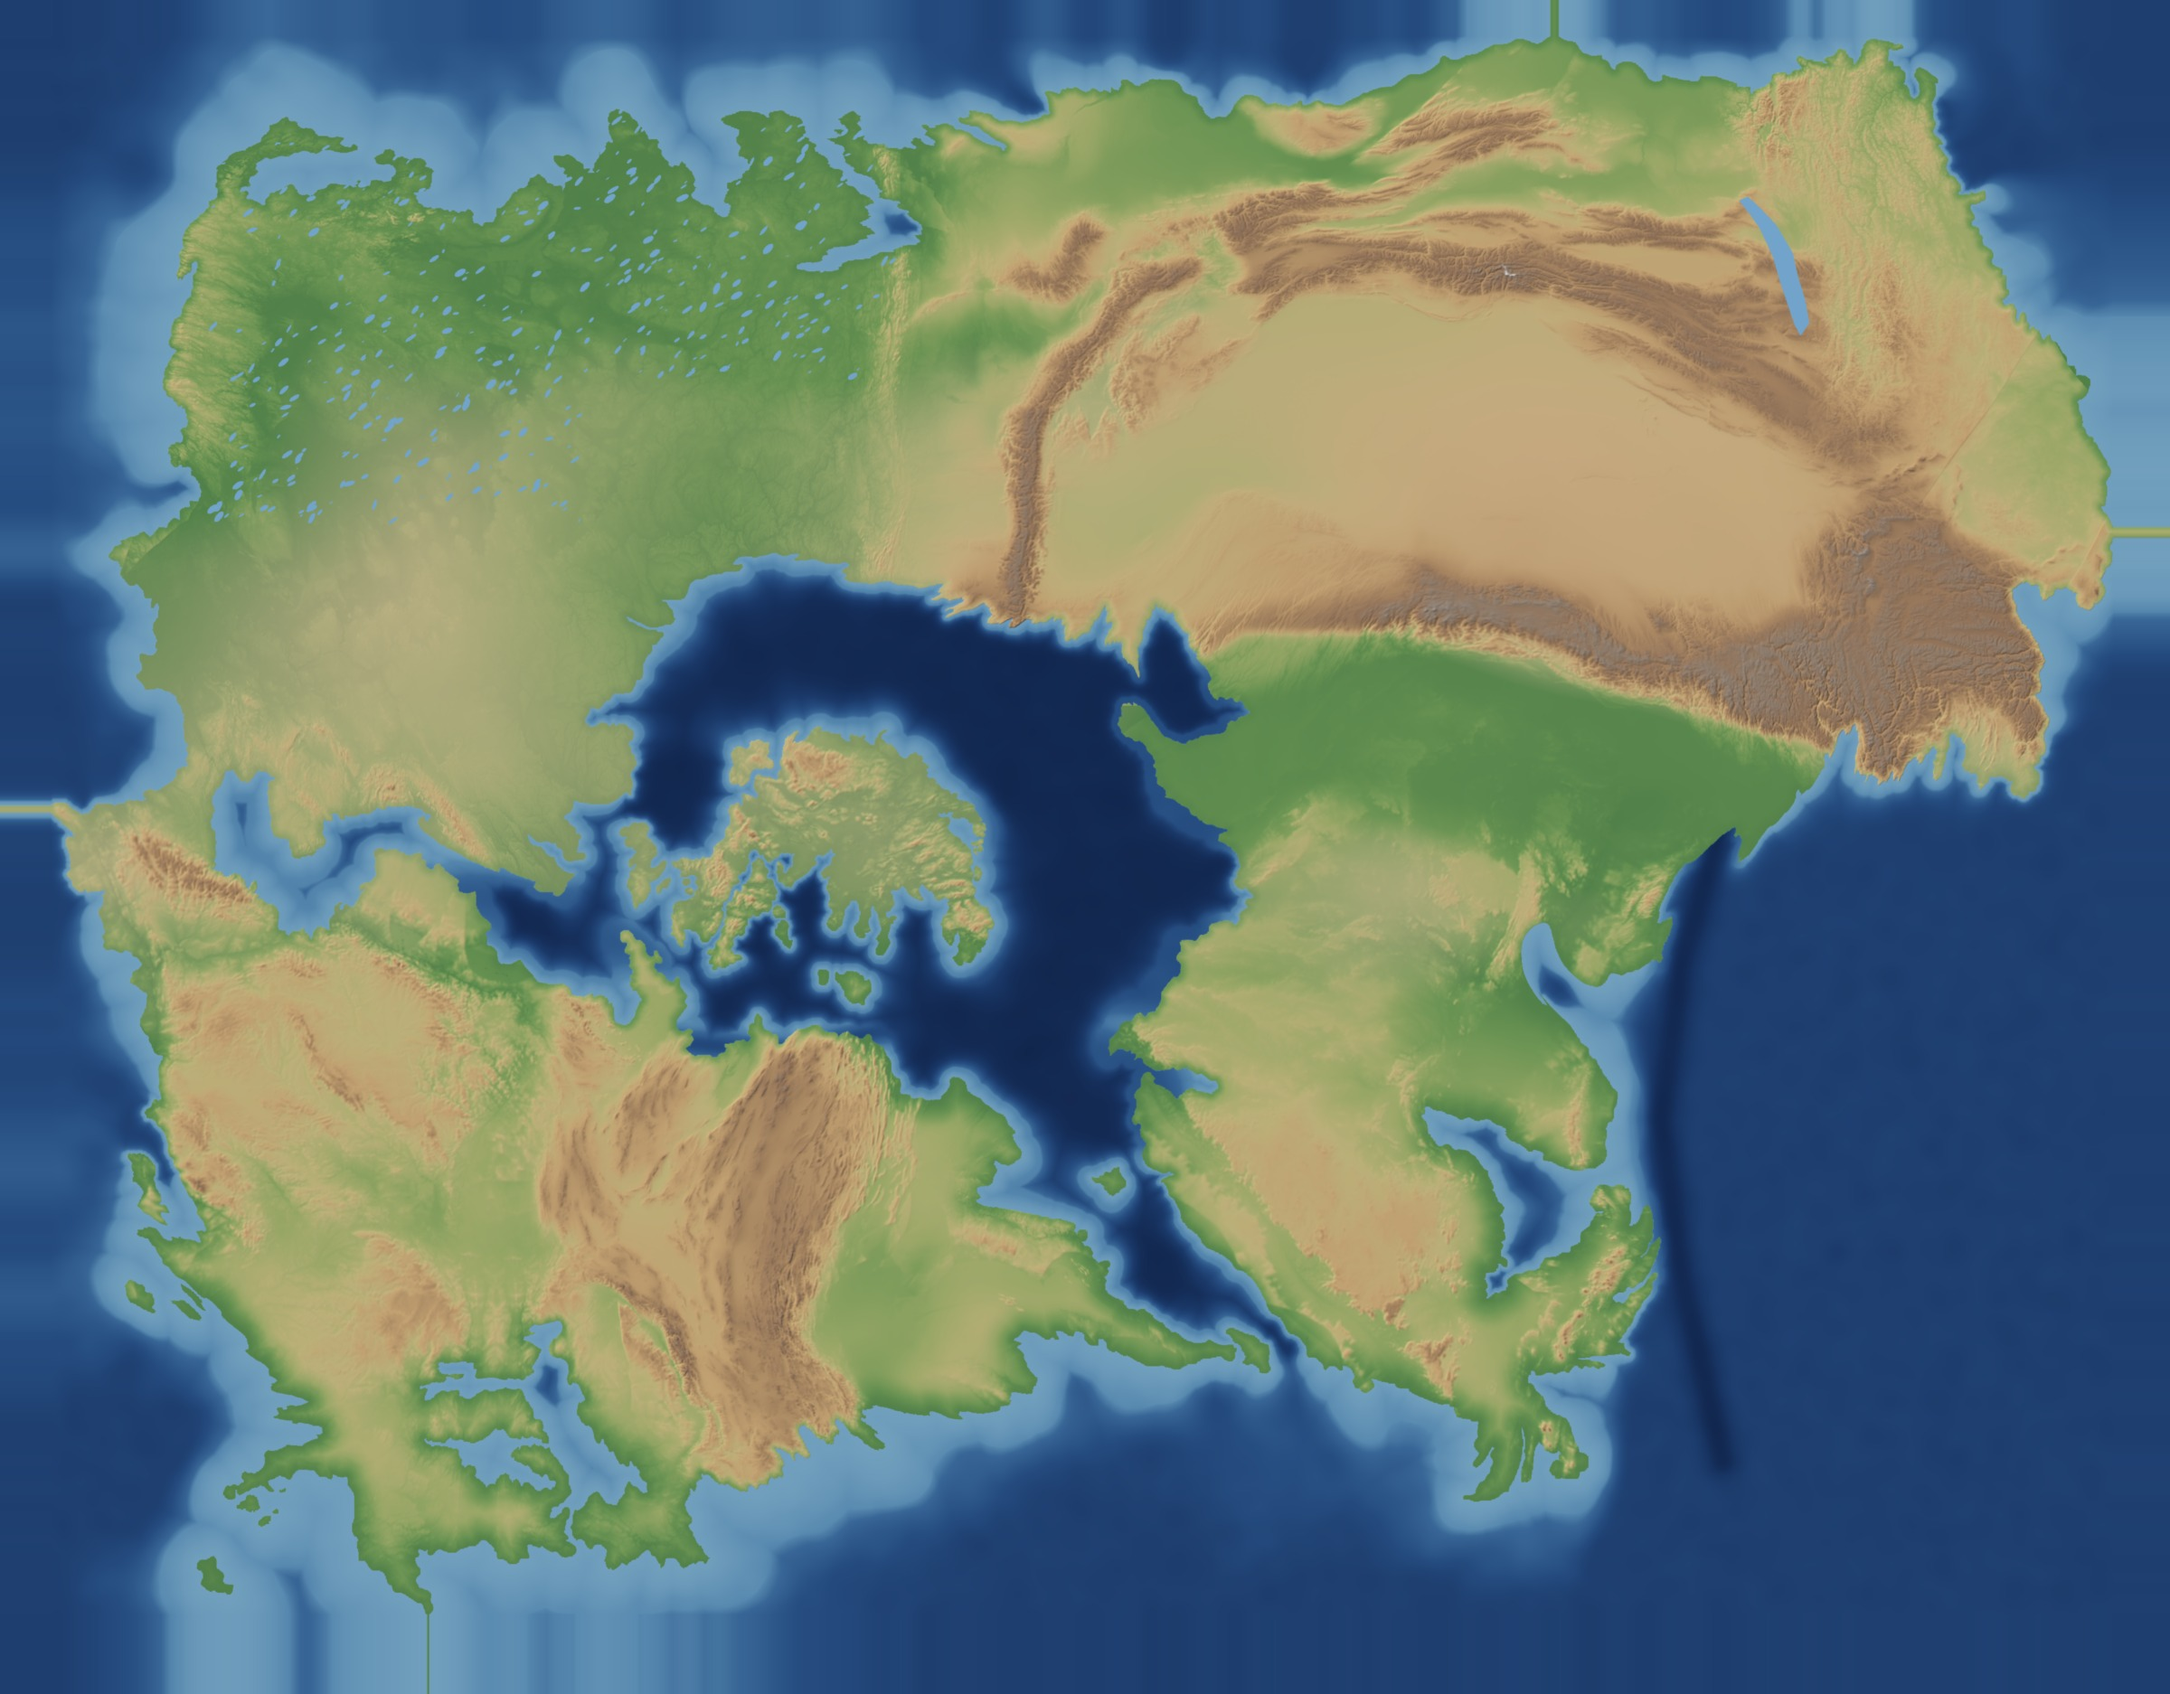
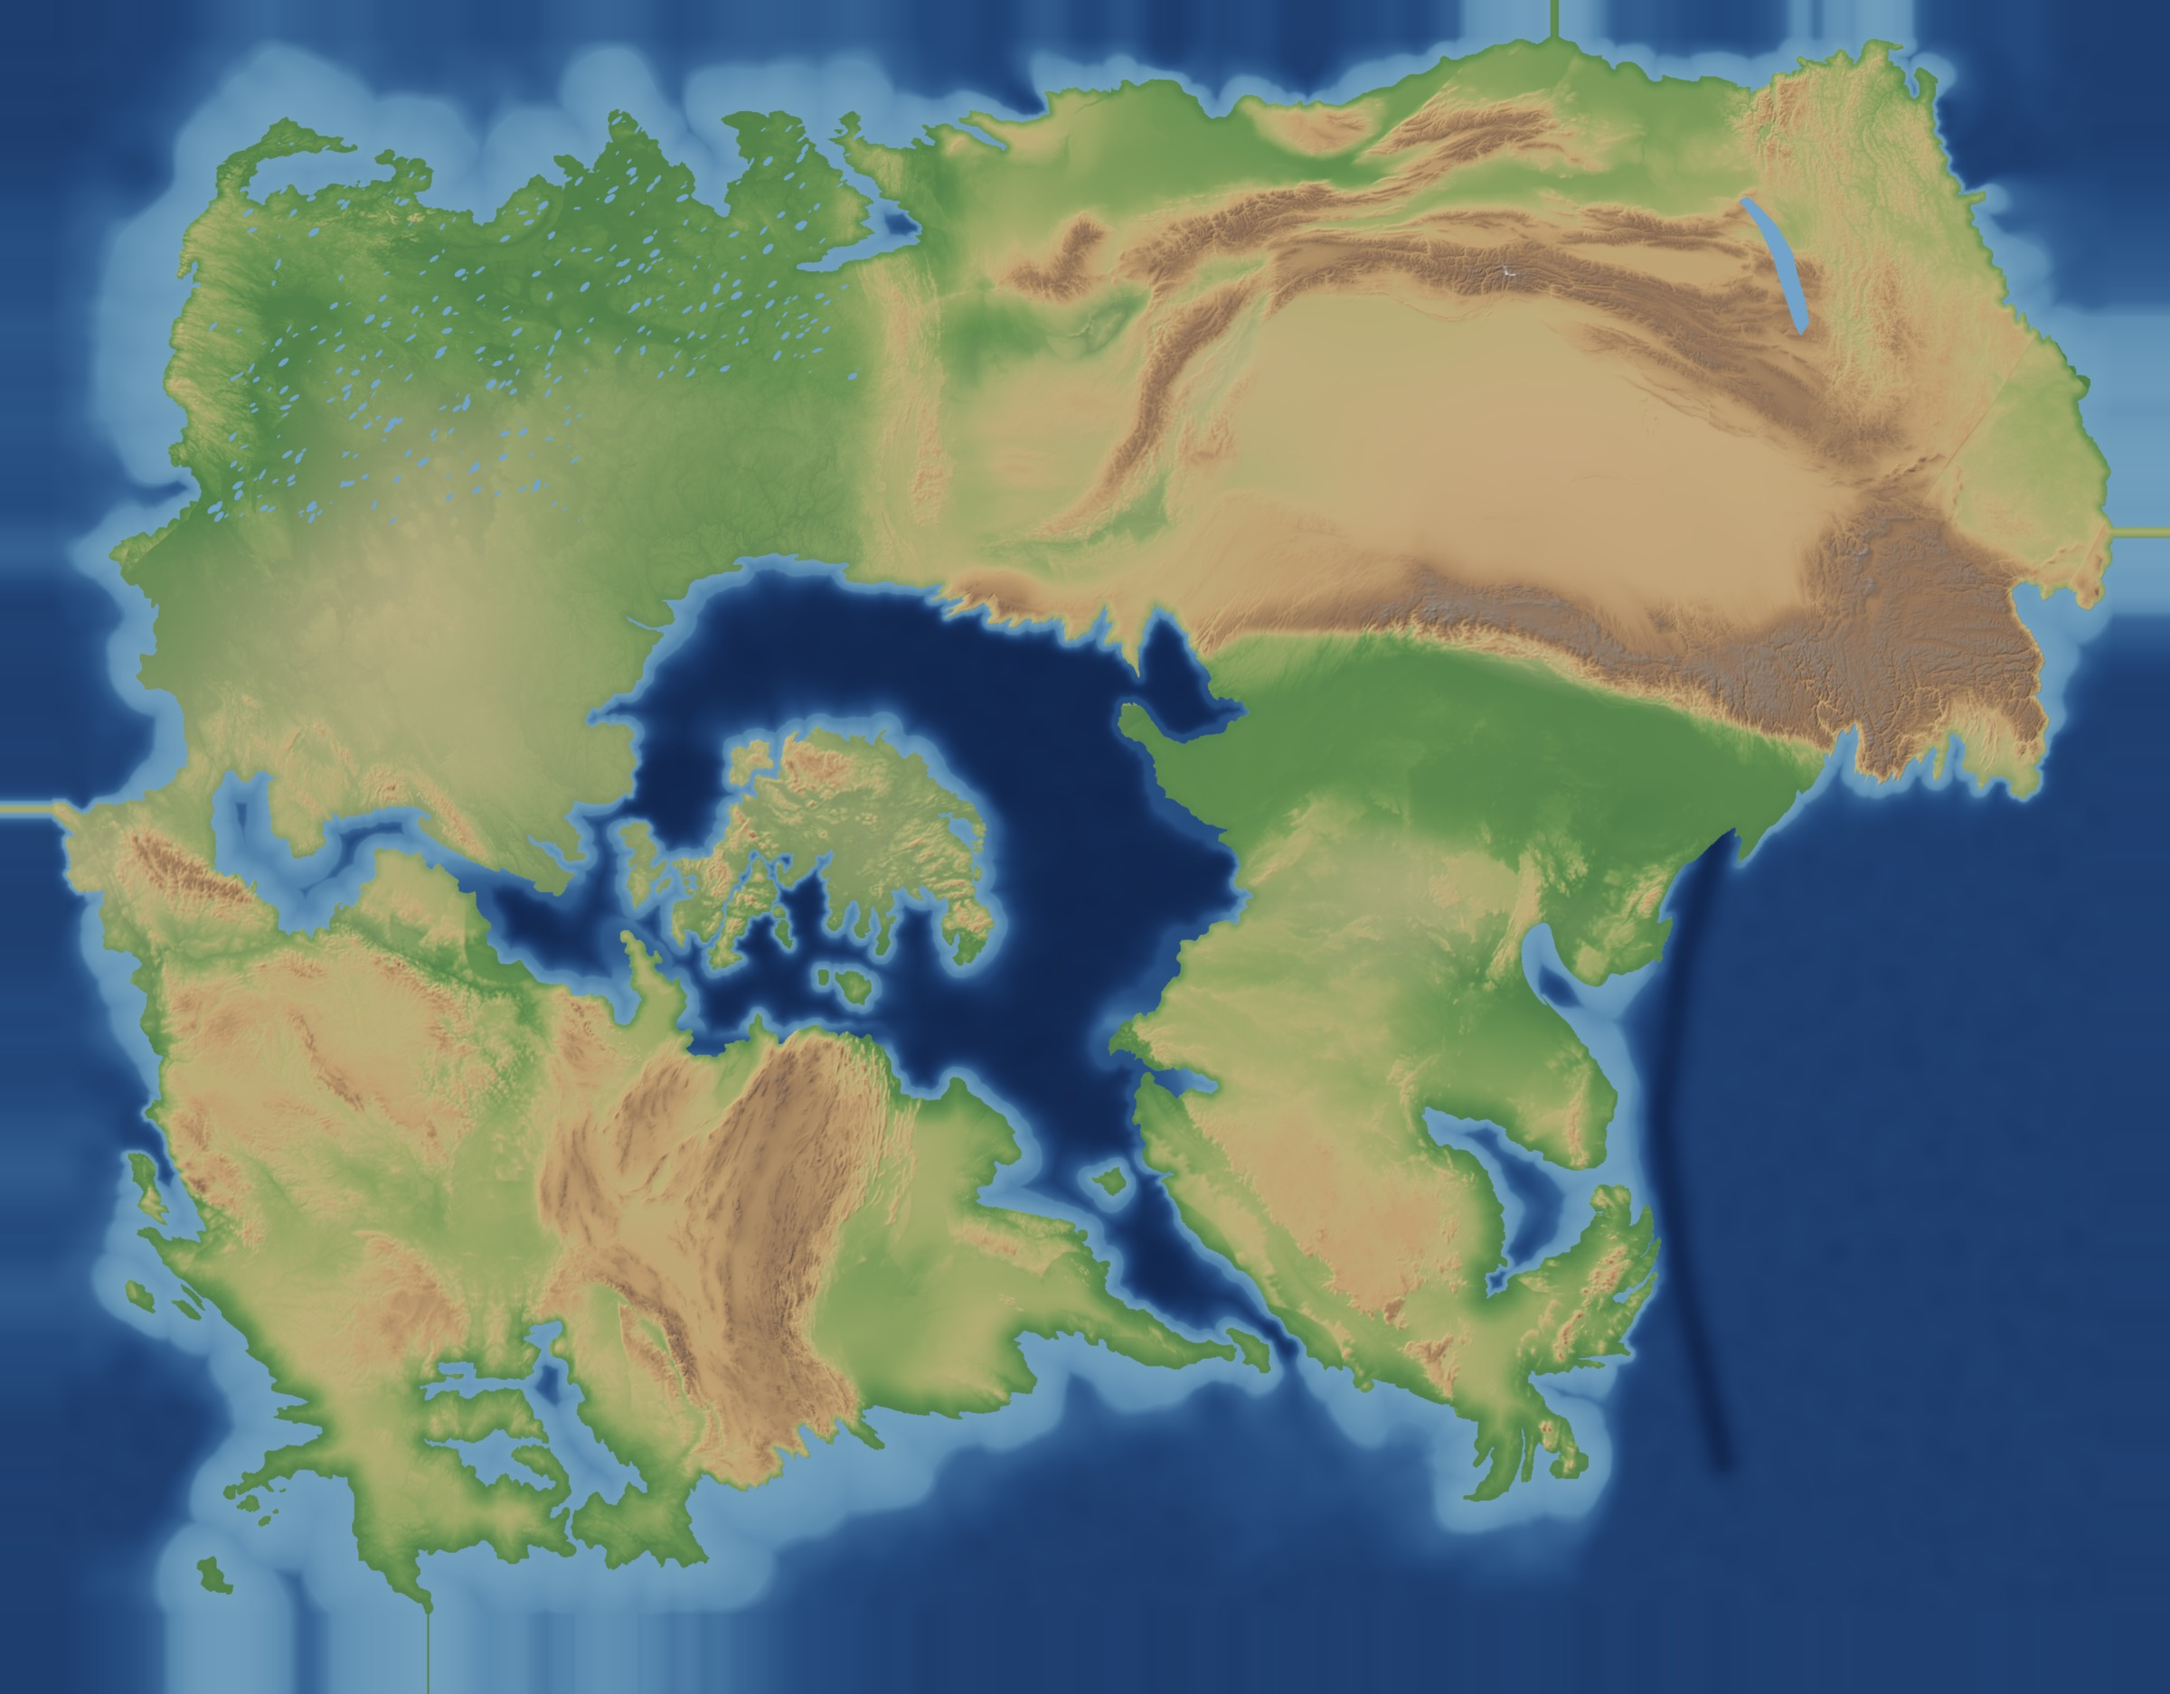
Tarih: Kaynak Sırası S hattında ve dibe doğru incelir; Mavi Dağlar Apalaş dokusu ve hafif kabartı
Claude-Session: https://claude.ai/code/session_01TrTgWsQ7k9npTcPJkL6aYQ

Changed region(s): [[0.4375, 0.1238, 0.5938, 0.3714], [0.375, 0.0928, 0.4688, 0.2785]]

diff --git a/tarih/benzer.py b/tarih/benzer.py
@@ -35,6 +35,14 @@ KARSILIK = [
         "nokta": [(105, 470, 7.0, 58.0), (190, 105, 25.8, 71.1), (800, 110, 59.2, 65.0), (808, 520, 58.3, 54.2)],
         "bolge": [(0, 0), (870, 0), (875, 300), (880, 600), (860, 620), (600, 720), (560, 960), (400, 880), (260, 880), (170, 795), (90, 775), (0, 725)],
     },
+    {   # Mavi Dağlar: 430 milyon yıllık 1 ile 2 dikişi. Düz Ural şeridi yerine kıvrımlı, yaşlı Apalaş sırtları (sahibin çizdiği hat).
+        "ad": "Mavi", "kutu": (-90, -72, 32, 44), "parca": {"1", "2"}, "oncelik": 2.5, "yumusak_km": 45,
+        "etiket": [],
+        "nokta": [(793, 139, -76.3, 41.6), (808, 228, -78.6, 39.6), (822, 312, -80.6, 37.9), (833, 407, -82.9, 36.2),
+                  (840, 512, -85.6, 34.4)],
+        "bolge": [(760, 110), (830, 110), (850, 230), (868, 320), (878, 410), (885, 520), (800, 530), (790, 410), (775, 320),
+                  (760, 230)],
+    },
     {   # 2'nin kuzeyi ve ortası: Orta Sibirya; Putorana = Kuzey Tuzakları, Baykal = Derin Göl, Sayanlar = Uzak Sıra
         "ad": "Sibirya", "kutu": (60, 140, 44, 78), "parca": {"2", "serit"},
         "etiket": [("Derin Göl", 110.6, 54.6, 15), ("UZAK SIRA", 96.5, 52.6, 17), ("Boz Kalkan", 110.0, 64.0, 16)],
@@ -60,14 +68,12 @@ KARSILIK = [
         "ad": "Kaynak", "kutu": (35, 51, 39, 47.5), "parca": {"2"}, "oncelik": 4.0, "yumusak_km": 35, "bukme_kat": 0.0,
         "yukseklik_egri": [(0, 0), (1000, 900), (2500, 2150), (4000, 3000), (5700, 3500)],
         "etiket": [("KAYNAK SIRASI", 42.4, 43.35, 14)],
-        # sahibin çizdiği yön: Çanak Sıraları'nın batı ucundan güneybatıya inen kol (görüntü pikseli)
-        "nokta": [(905, 452, 37.6, 44.8), (957, 362, 40.6, 43.7), (1005, 297, 43.6, 42.95), (1045, 258, 45.6, 42.3),
-                  (1078, 235, 47.5, 41.5), (1115, 215, 49.2, 40.8)],
-        "bolge": [(895.6, 392), (930, 330), (990, 255), (1060, 200), (1130, 180), (1145, 235), (1080, 280), (1020, 340),
-                  (984, 392)],
-        # eşlemenin çapa kutusu önceki bölgeden: 44°K kuzeyindeki doku kıpırdamasın
-        "capa_bolge": [(880, 420), (930, 330), (990, 255), (1060, 200), (1130, 180), (1145, 235), (1080, 280), (1020, 340),
-                       (975, 405), (935, 485), (880, 480)],
+        # sahibin çizdiği S biçimli hat (görüntü pikseli): Çanak Sıraları'ndan güneybatıya, dibe doğru incelerek ve alçalarak.
+        # Kafkas ters yönde: alçak ve ince batı ucu (Anapa) sıranın dibinde.
+        "nokta": [(1150, 241, 48.6, 41.2), (1108, 291, 47.0, 41.8), (1077, 333, 45.4, 42.4), (1055, 386, 43.8, 42.9),
+                  (1024, 438, 42.2, 43.35), (977, 475, 40.2, 43.9), (908, 498, 37.6, 44.8)],
+        "bolge": [(1120, 205), (1190, 225), (1150, 300), (1110, 350), (1090, 410), (1050, 470), (990, 515), (900, 525),
+                  (890, 480), (960, 445), (1000, 405), (1025, 345), (1065, 280)],
     },
     {   # Mor Sıradağları: yalnız dar sıra şeridi; karşılığı aynalanmış Himalaya'nın ön kuşağı (arkasındaki yayla dahil değil),
         # yükseklik 6 km dolayına ölçekli. Çanak bölgesinin üstüne baskın yazılır.
@@ -305,27 +311,29 @@ def tasarla(z, kara, s, doku):
 
 GOL = None
 # Kaynak Sırası: dokunun altına geniş ve alçak kabartı (boşluk kalmasın); doruklar yumuşak sınırla 3500 m dolayında tutulur
-SIRT_TABAN = {"cizgi": [(905, 452), (957, 362), (1005, 297), (1045, 258), (1078, 235), (1115, 215)],
-              "kabarti": 900.0,
-              "yari_km": 65.0, "ust": 3750.0}
+SIRT_TABAN = {"cizgi": [(1150, 241), (1108, 291), (1077, 333), (1055, 386), (1024, 438), (977, 475), (908, 498)],
+              # kuzeydoğudan güneybatıya: kabartı ve yarı genişlik dibe doğru azalır (sıra incelerek biter)
+              "kabarti": [900, 900, 850, 700, 500, 300, 120], "yari_km": [60, 60, 55, 48, 40, 32, 25], "ust": 3750.0}
 
 
 def sirt_taban(z, kara, s):
     from scipy.spatial import cKDTree
     c = np.array(SIRT_TABAN["cizgi"], float)
-    pts = np.vstack([c[i] + (c[i + 1] - c[i]) * t for i in range(len(c) - 1) for t in np.linspace(0, 1, 80)[:, None]]) * s
+    n = 80
+    pts = np.vstack([c[i] + (c[i + 1] - c[i]) * t for i in range(len(c) - 1) for t in np.linspace(0, 1, n)[:, None]]) * s
+    def boyunca(v):
+        v = np.array(v, float)
+        return np.concatenate([v[i] + (v[i + 1] - v[i]) * np.linspace(0, 1, n) for i in range(len(v) - 1)])
+    A = boyunca(SIRT_TABAN["kabarti"]); Wk = boyunca(SIRT_TABAN["yari_km"])
     ny, nx = z.shape
     r0, r1 = max(int(c[:, 1].min() * s) - 250, 0), min(int(c[:, 1].max() * s) + 250, ny)
     c0, c1 = max(int(c[:, 0].min() * s) - 250, 0), min(int(c[:, 0].max() * s) + 250, nx)
     yy, xx = np.mgrid[r0:r1, c0:c1]
     d, i = cKDTree(pts).query(np.stack([xx.ravel(), yy.ravel()], 1))
-    d = d.reshape(xx.shape) * O.KM_PX / s
-    # uçlarda sönsün (kuzey ve güney ucu doğal biter)
-    # uçlarda sön (önceki sürümle aynı); 44°K'nin güneyinde bu kabartı yok, oradan SIRT_GUNEY devralır (birleşme için 44,3°K'ye kadar geçiş)
-    t = (i.reshape(xx.shape) / (len(pts) - 1))
-    uc = np.clip(t / 0.04, 0, 1) * np.clip((1 - t) / 0.04, 0, 1)
-    uc = uc * np.clip((372 - yy / s) / 14, 0, 1)
-    k = SIRT_TABAN["kabarti"] * np.exp(-(d / SIRT_TABAN["yari_km"]) ** 2) * uc
+    d = d.reshape(xx.shape) * O.KM_PX / s; i = i.reshape(xx.shape)
+    t = i / (len(pts) - 1)
+    uc = np.clip(t / 0.03, 0, 1) * np.clip((1 - t) / 0.06, 0, 1)
+    k = A[i] * np.exp(-(d / Wk[i]) ** 2) * uc
     alt = z[r0:r1, c0:c1] + k
     u = SIRT_TABAN["ust"] - 300
     alt = np.where(alt > u, u + 300 * np.tanh((alt - u) / 300), alt)
@@ -338,6 +346,7 @@ def sirt_taban(z, kara, s):
 # Kaynak Sırası'nın 44°K ile 36°K arası (atlas oturumunun kararı: gedik kapansın, kesim en az 3000 m, genişlik kuzeyle aynı,
 # hat 44°K 2,7°B ile 36°K 3,6°B arası). Doku Kafkas'ın yüksek orta bölümünden (ters yönde); kıyı alçaltmasından sonra uygulanır ki sıra kıyıya kadar yüksek kalsın.
 SIRT_GUNEY = {
+    "etkin": False,  # sahip sırtı S biçimli hatta taşıdı ve dibe doğru incelmesini istedi; bu kesim artık kullanılmıyor
     "cizgi": [(955, 365), (950, 410), (944, 456), (939, 501), (934, 549)],
     "karsilik": {"ad": "KafkasGüney", "kutu": (38, 50, 39.5, 46), "bolge": [(0, 0)],
                  "yukseklik_egri": [(0, 0), (1000, 900), (2500, 2150), (4000, 3000), (5700, 3500)],
@@ -398,6 +407,24 @@ def ekvator_kalkan(z, kara, s):
     g = ndimage.zoom(g / g.std(), (ny / g.shape[0], nx / g.shape[1]), order=1)[:ny, :nx]
     yuk = e["genlik"] * U * R * H * (1 + 0.25 * np.clip(g, -2, 2))   # kubbe düz olmasın
     return np.where(kara, z + yuk, z)
+
+
+# Mavi Dağlar ve çevresi Mor çarpışmasından az etkilenip hafifçe kabarır: kuzeyde yaklaşık 150 m, güneyde (Mor'a yakın) 350 m
+MAVI = {"cizgi": [(793, 139), (808, 228), (822, 312), (833, 407), (840, 512)], "kabarti": [150, 190, 240, 300, 350], "yari_km": 160.0}
+
+
+def mavi_kabarti(z, kara, s):
+    from scipy.spatial import cKDTree
+    c = np.array(MAVI["cizgi"], float); n = 60
+    pts = np.vstack([c[i] + (c[i + 1] - c[i]) * t for i in range(len(c) - 1) for t in np.linspace(0, 1, n)[:, None]]) * s
+    v = np.array(MAVI["kabarti"], float)
+    A = np.concatenate([v[i] + (v[i + 1] - v[i]) * np.linspace(0, 1, n) for i in range(len(v) - 1)])
+    ny, nx = z.shape
+    yy, xx = np.mgrid[0:ny:4, 0:nx:4]
+    d, i = cKDTree(pts).query(np.stack([xx.ravel(), yy.ravel()], 1))
+    k = (A[i] * np.exp(-(d * O.KM_PX / s / MAVI["yari_km"]) ** 2)).reshape(xx.shape)
+    k = ndimage.zoom(k, (ny / k.shape[0], nx / k.shape[1]), order=1)[:ny, :nx]
+    return np.where(kara, z + k, z)
 
 
 MOR_SIRT = [(1075, 615), (1150, 562), (1300, 562), (1500, 614), (1715, 674), (1870, 700)]
@@ -475,6 +502,7 @@ def bilesik():
     z = np.where(z > 850, 850 + (z - 850) * (1 - 0.75 * Wl), z)
     z = on_ova(z, kara, s, lab, adlar)
     z = sirt_taban(z, kara, s)
+    z = mavi_kabarti(z, kara, s)
     if TASARIM.get("etkin"):
         k_t = TASARIM["doku"]
         im = Image.new("L", (nx, ny), 0)
@@ -487,7 +515,8 @@ def bilesik():
     dk = ndimage.distance_transform_edt(kara) * O.KM_PX / s
     u = np.clip(dk / 45.0, 0, 1)
     z = z * (0.3 + 0.7 * u * u * (3 - 2 * u))
-    z = sirt_guney(z, kara, s, kaynaklar)
+    if SIRT_GUNEY.get("etkin", True):
+        z = sirt_guney(z, kara, s, kaynaklar)
     z = ekvator_kalkan(z, kara, s)
     z = np.where(kara, np.maximum(z, 1.0), 0.0)
     np.save(f"{CIKTI}/benzer_z.npy", z.astype(np.float32))

diff --git a/tarih/notlar/KARARLAR.md b/tarih/notlar/KARARLAR.md
@@ -64,3 +64,8 @@ Atlas çözünürlüğünde 92 satırın her birinde tepe 3099 ile 3782 m (medya
 Atlas enleminde 2,5°G ile 12,5°K arası tam, 10°G ve 20°K'ye doğru doğrusal sönen, kıyıdan 140 km içeriye kadar artan, 1000 m üstü dağlara
 eklenmeyen yaklaşık 480 m'lik kubbe (benzer.py EKVATOR). Atlasta bant karası: ortanca 236'dan 644 m'ye, p10 36'dan 136 m'ye. 20°K kuzeyinde
 en büyük fark 0,1 m; batı sırtı kutusunda 0; kara maskesi farkı 0. Hikâyede 15 MYÖ "Güney kubbesi".
+
+## Kaynak Sırası S biçimli hat, Mavi Dağlar doğallaştı (sahibin isteği)
+Kaynak Sırası sahibin çizdiği S hattında: atlasta 49,5°K 5,8°D'den 38,2°K 4,8°B'ye; kuzey yarısında tepe 2950 ile 3100 m, dibe doğru
+incelerek ve alçalarak 800 m'ye iner. Önceki 36 ile 44°K arası kesintisiz sırt (gedik kapatma) bununla geçersiz; bozkır yeniden ölçülmeli.
+Mavi Dağlar: Ural şeridi yerine kıvrımlı Apalaş sırtları (tepe 850 ile 1200 m) ve çevresiyle hafif kabartı (kuzeyde 150, güneyde 350 m).
